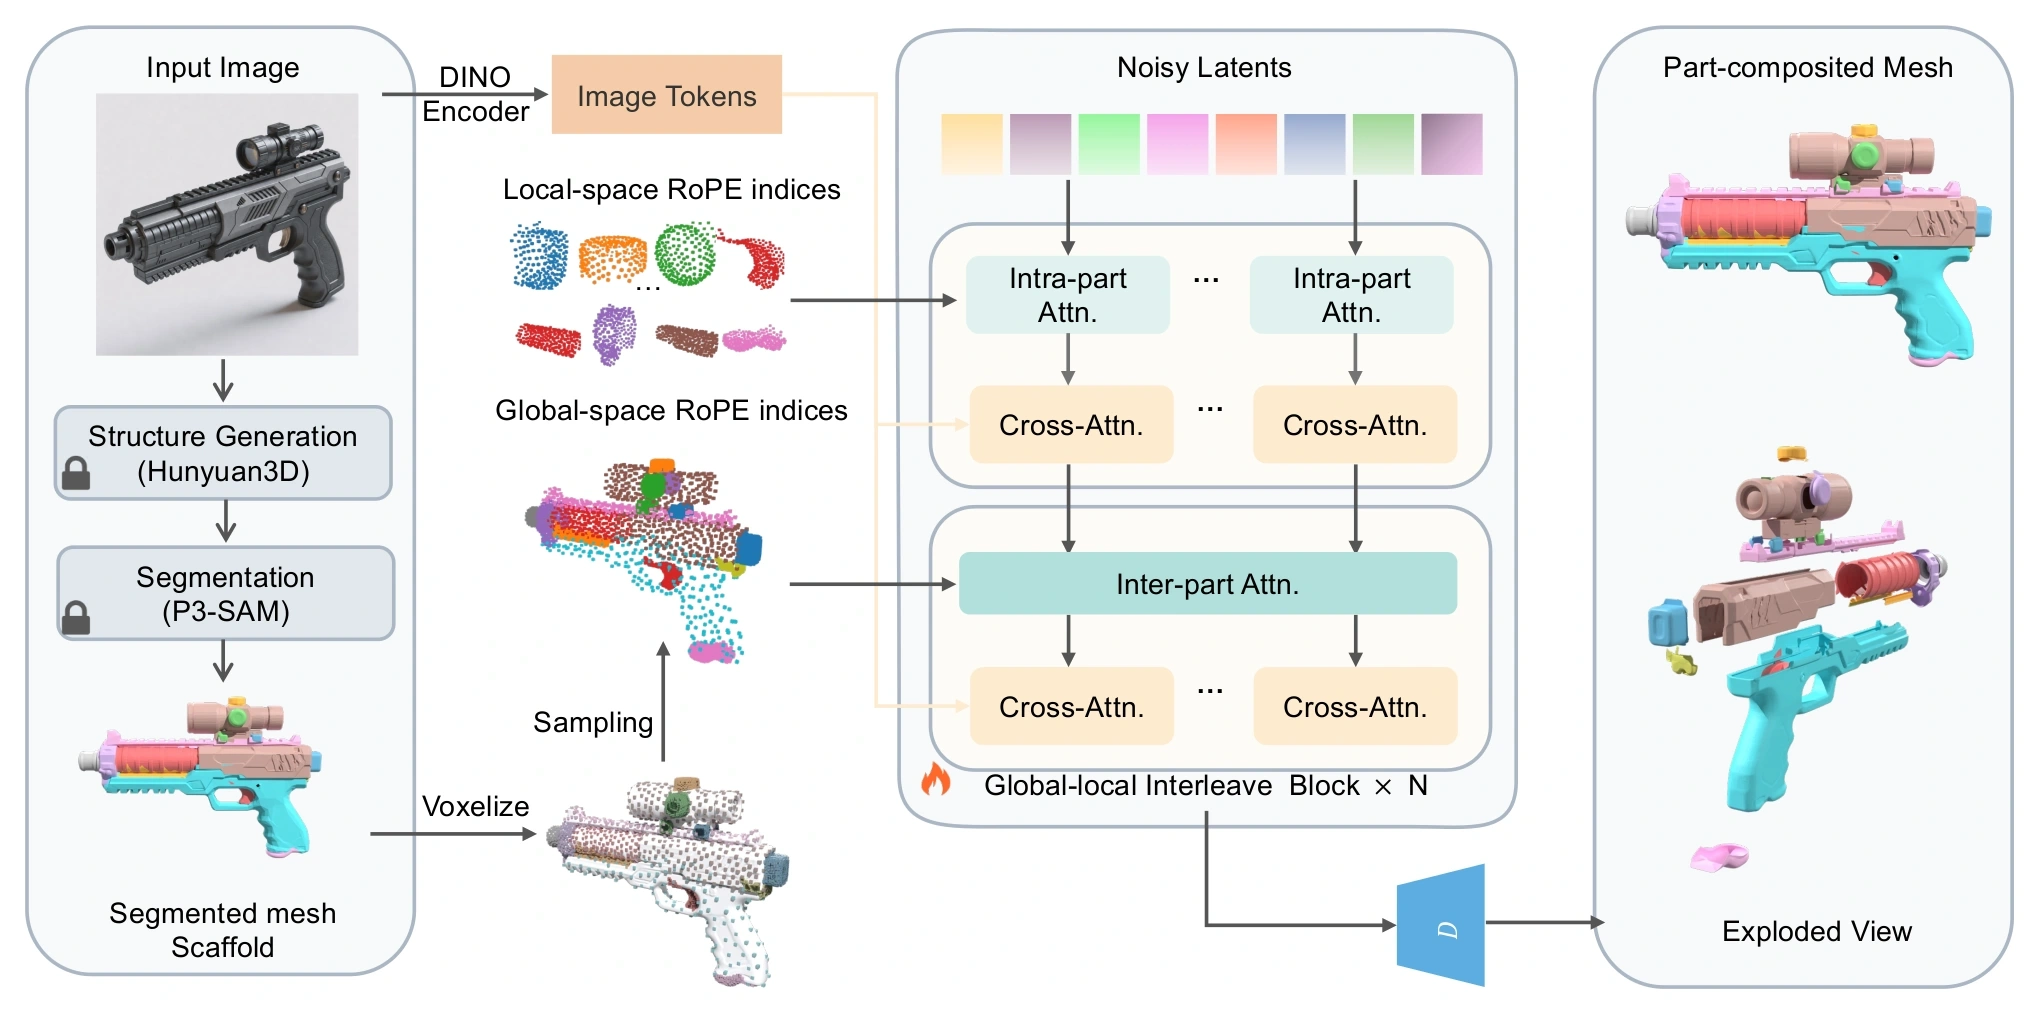
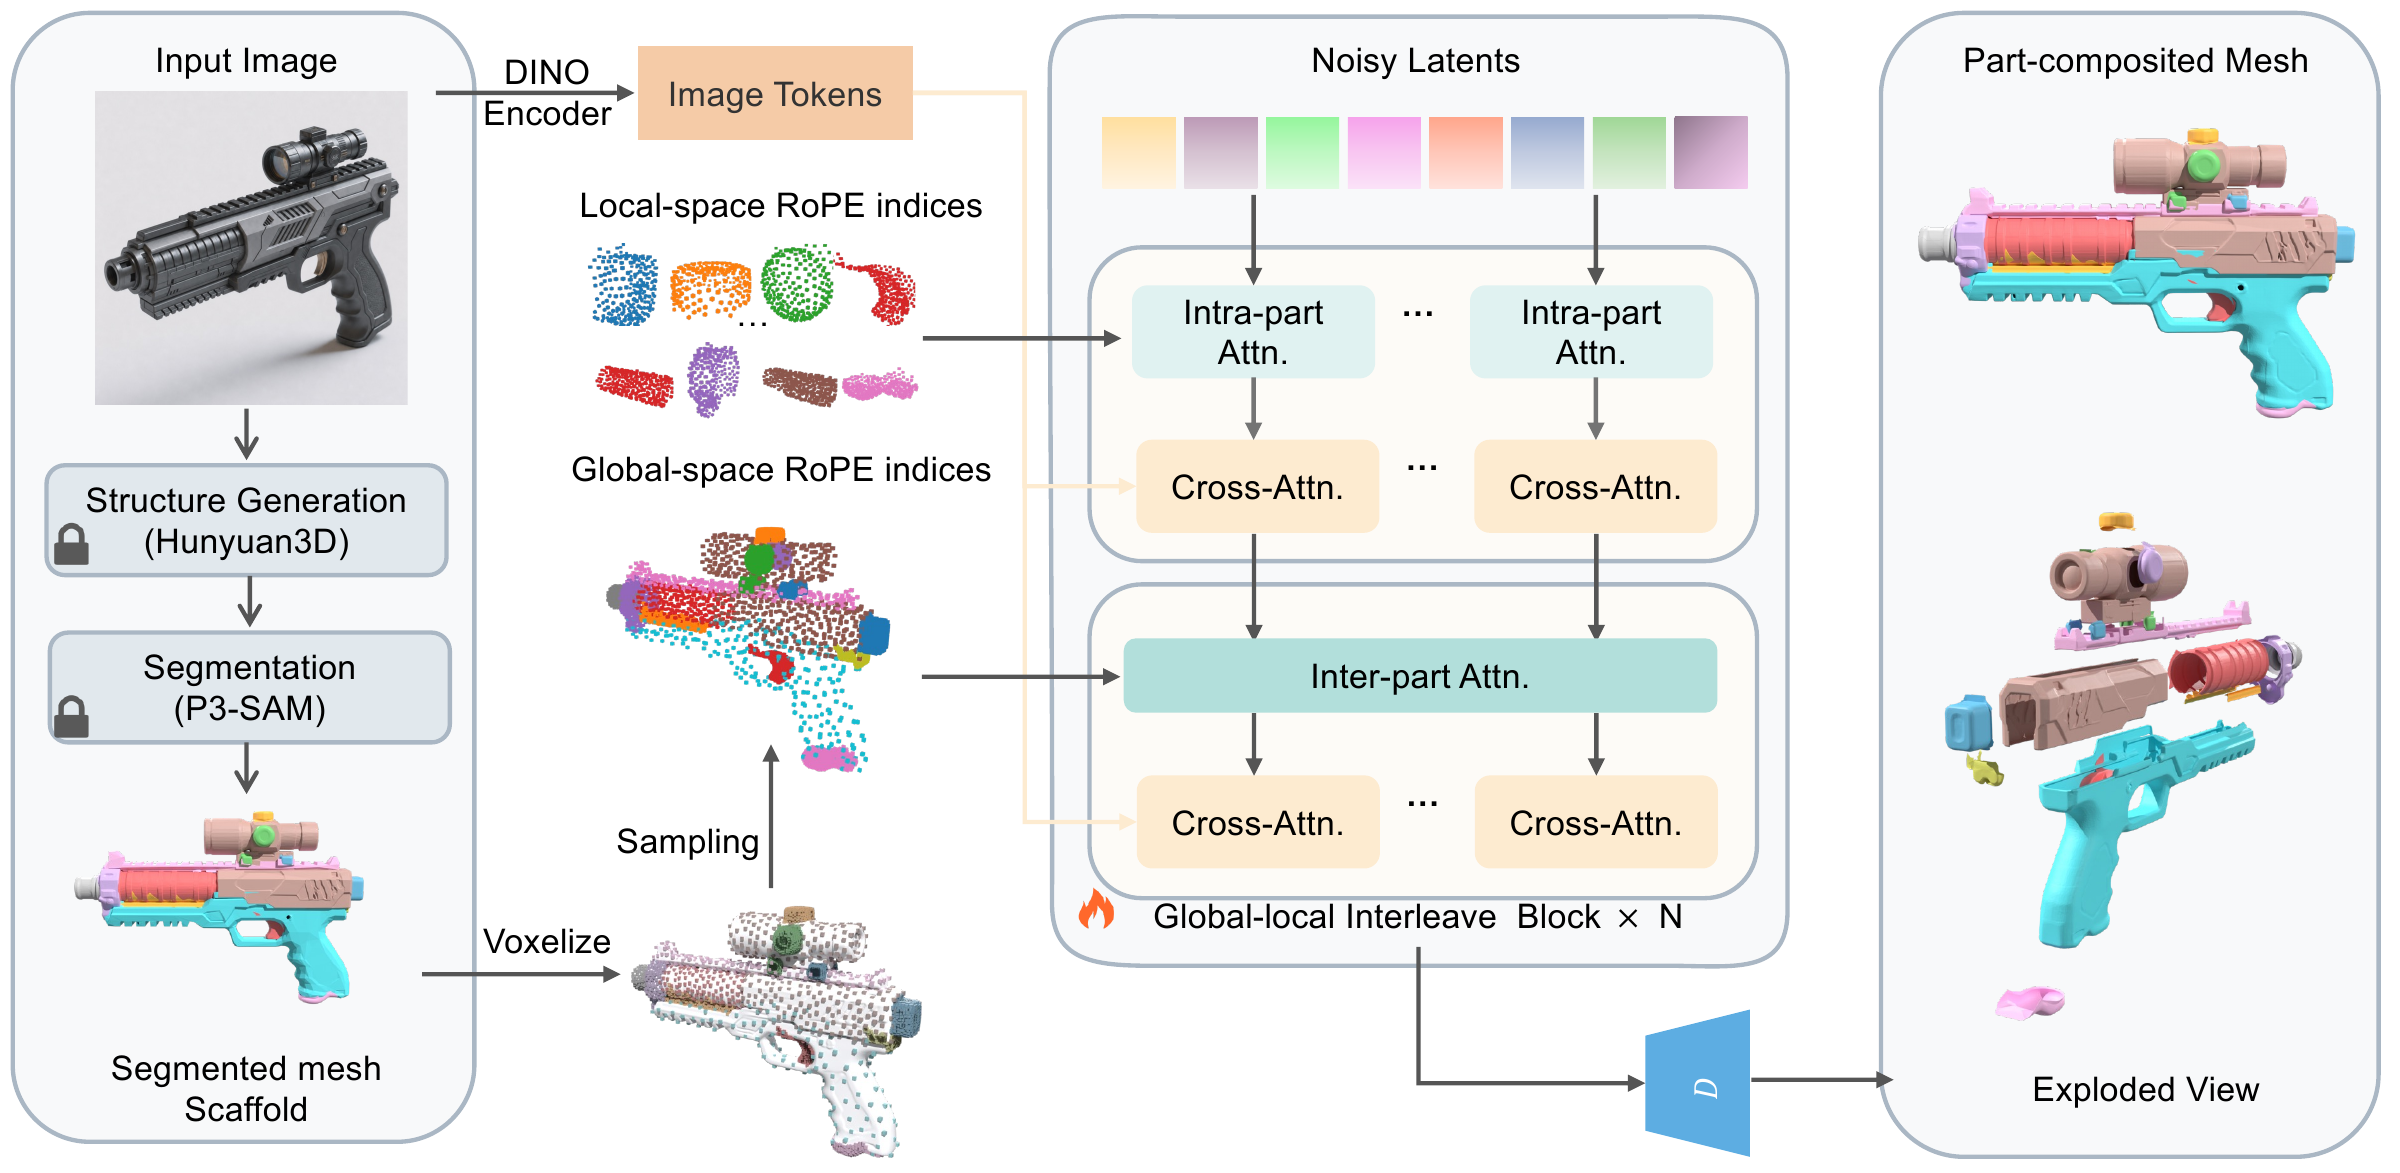
Export homepage figures from paper PDFs using saved crop boxes

diff --git a/index.html b/index.html
@@ -31,16 +31,16 @@
 </section>
 <section id="method" class="figure-section">
 <div class="section-heading"><span class="number">01 / METHOD</span><h2>From a holistic prior to explicit parts</h2></div>
-<figure><a href="assets/pipeline.webp" target="_blank" rel="noopener"><img src="assets/pipeline.webp" alt="StructParts pipeline: image to segmented mesh scaffold, part-local and object-global voxel coordinates, and interleaved diffusion for detailed part meshes" loading="lazy"></a><figcaption>A segmented mesh scaffold anchors the shape tokens. Part-local and object-global coordinate frames guide the same pretrained diffusion model at complementary scales. Dataset-provided ground-truth meshes and segmentations illustrate the part-wise data flow in this diagram.</figcaption></figure>
+<figure><a href="assets/pipeline.webp?v=8f037081c161" target="_blank" rel="noopener"><img src="assets/pipeline.webp?v=8f037081c161" alt="StructParts pipeline: image to segmented mesh scaffold, part-local and object-global voxel coordinates, and interleaved diffusion for detailed part meshes" loading="lazy"></a><figcaption>A segmented mesh scaffold anchors the shape tokens. Part-local and object-global coordinate frames guide the same pretrained diffusion model at complementary scales. Dataset-provided ground-truth meshes and segmentations illustrate the part-wise data flow in this diagram.</figcaption></figure>
 </section>
 <section id="results" class="figure-section">
 <div class="section-heading"><span class="number">02 / GENERATION</span><h2>One image, many coherent parts</h2></div>
-<figure><a href="assets/image-to-shape.webp" target="_blank" rel="noopener"><img src="assets/image-to-shape.webp" alt="Image-conditioned generation examples with input images and the resulting part-decomposed 3D objects" loading="lazy"></a><figcaption>Image-conditioned generation across varied object categories. Colors distinguish generated parts.</figcaption></figure>
-<figure class="comparison"><a href="assets/comparison.webp" target="_blank" rel="noopener"><img src="assets/comparison.webp" alt="Qualitative comparisons of part-decomposed generation against baseline methods" loading="lazy"></a><figcaption>Qualitative part-decomposed generation comparisons from the paper.</figcaption></figure>
+<figure><a href="assets/image-to-shape.webp?v=e834cb0c7c00" target="_blank" rel="noopener"><img src="assets/image-to-shape.webp?v=e834cb0c7c00" alt="Image-conditioned generation examples with input images and the resulting part-decomposed 3D objects" loading="lazy"></a><figcaption>Image-conditioned part generation and detail comparisons from the paper. Colors distinguish generated parts.</figcaption></figure>
+<figure class="comparison"><a href="assets/comparison.webp?v=78731e953b0c" target="_blank" rel="noopener"><img src="assets/comparison.webp?v=78731e953b0c" alt="Qualitative comparisons of part-decomposed generation against baseline methods" loading="lazy"></a><figcaption>Qualitative part-decomposed generation comparisons from the paper.</figcaption></figure>
 </section>
 <section id="editing" class="figure-section">
 <div class="section-heading"><span class="number">03 / APPLICATIONS</span><h2>Parts you can refine and edit</h2></div>
-<div class="applications"><figure><h3>Part-mesh refinement</h3><a href="assets/refinement.webp" target="_blank" rel="noopener"><img src="assets/refinement.webp" alt="Part-mesh refinement results, showing geometry detail restored from a coarse scaffold" loading="lazy"></a><figcaption>Refine individual part geometry while retaining the scaffold's overall structure.</figcaption></figure><figure><h3>Part-level editing</h3><a href="assets/editing.webp" target="_blank" rel="noopener"><img src="assets/editing.webp" alt="Part-level editing examples including modifications of segmented 3D objects" loading="lazy"></a><figcaption>Explicit parts provide an interface for local editing.</figcaption></figure></div>
+<div class="applications"><figure><h3>Part-mesh refinement</h3><a href="assets/refinement.webp?v=42cd59d694c9" target="_blank" rel="noopener"><img src="assets/refinement.webp?v=42cd59d694c9" alt="Part-mesh refinement results, showing geometry detail restored from a coarse scaffold" loading="lazy"></a><figcaption>Refine individual part geometry while retaining the scaffold's overall structure.</figcaption></figure><figure><h3>Part-level editing</h3><a href="assets/editing.webp?v=1b463a7cc353" target="_blank" rel="noopener"><img src="assets/editing.webp?v=1b463a7cc353" alt="Part-level editing examples including modifications of segmented 3D objects" loading="lazy"></a><figcaption>Explicit parts provide an interface for local editing.</figcaption></figure></div>
 </section>
 <section class="citation"><span class="number">CITATION</span><pre><code>@misc{zhao_structparts,
   title = {Seeing Both the Forest and the Trees:

diff --git a/README.md b/README.md
@@ -30,3 +30,7 @@ DINOv2 checkpoints are not distributed with StructParts. Users download DINOv2-l
 ## Acknowledgments
 
 We thank [Hunyuan3D-2.1](https://github.com/Tencent-Hunyuan/Hunyuan3D-2.1) and [UltraShape-1.0](https://github.com/PKU-YuanGroup/UltraShape-1.0) for their open-source models and implementations, which our work builds upon. Original license and copyright notices are retained in the inference code.
+
+## Figure sources
+
+The five static method/result figures are exported directly from the PDFs actively referenced by the paper, respecting each PDF’s saved CropBox. `figure-sources.json` records the LaTeX source, PDF SHA-256, crop coordinates, and output hashes. Re-export with `python scripts/site/export_paper_figures.py` in the paper repository, then sync the generated assets.
